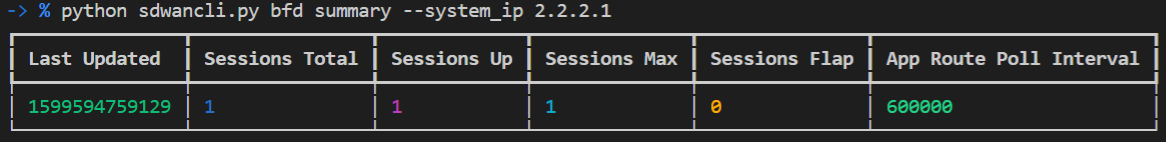
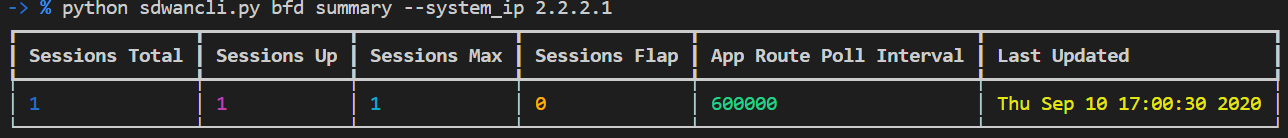
Update readme

diff --git a/vmanage/template.py b/vmanage/template.py
@@ -4,7 +4,7 @@ import click
 import json
 from rich.console import Console
 from rich.table import Table
-from rich.text import Text
+# from rich.text import Text
 from vmanage.authenticate import authentication
 from vmanage.constants import vmanage
 urllib3.disable_warnings(urllib3.exceptions.InsecureRequestWarning)
@@ -44,75 +44,74 @@ def template_list():
     console.print(table)
 
 
-@cli_template.command(name="create", help="Create a feature template")
-@click.option("--name", help="ID of the template you wish to delete")
-@click.option("--description", help="ID of the template you wish to delete")
-@click.option("--device_type", help="ID of the template you wish to delete")
-def create_template(name, description, device_type):
-    headers = authentication(vmanage)
-    base_url = "https://" + f'{vmanage["host"]}:{vmanage["port"]}/dataservice'
-    api = "/template/device/feature?api_key=/template/device"
-    url = base_url + api
-    payload = {
-        "templateName": name,
-        "templateDescription": description,
-        "deviceType": device_type,
-        "configType": "template",
-        "factoryDefault": "true",
-        "policyId": "",
-        "featureTemplateUidRange": [],
-        "generalTemplates": [
-            {
-                "templateId": "70fd00fe-cc5e-4e19-a730-538a77e758d5",
-                "templateType": "aaa"
-            },
-            {
-                "templateId": "99f10289-4795-4512-8955-007902bea884",
-                "templateType": "bfd-vedge"
-            },
-            {
-                "templateId": "1327de66-2eff-4e83-8787-0060675dc498",
-                "templateType": "omp-vedge"
-            },
-            {
-                "templateId": "24fb3c60-f4a5-4daf-9910-be477a046b9e",
-                "templateType": "security-vedge"
-            },
-            {
-                "templateId": "5fb744ed-3bbd-47d8-bec2-19b46c158fb5",
-                "templateType": "system-vedge",
-                "subTemplates": [
-                    {
-                        "templateId": "7eb31a03-0ad1-4bac-b89c-5b3012b6d09d",
-                        "templateType": "logging"
-                    }
-                ]
-            },
-            {
-                "templateId": "71294ac3-0aaa-4115-8995-476a91eac976",
-                "templateType": "vpn-vedge"
-            },
-            {
-                "templateId": "bbc09a4e-c91f-4dcf-a3ca-654a2f3bd135",
-                "templateType": "vpn-vedge"
-            }
-        ],
-        "templateClass": "vedge"
-
-    }
-    response = requests.post(
-        url=url, data=json.dumps(payload), headers=headers, verify=False)
-    if response.status_code == 200:
-        items = response.json()
-        text = Text.assemble(
-            ("Successful", "bold green"),
-            " create template with templateID = ",
-            (items["templateId"], "magenta"))
-        console = Console()
-        console.print(text)
-    else:
-        print(str(response.text))
-        exit()
+# @cli_template.command(name="create", help="Create a feature template")
+# @click.option("--name", help="ID of the template you wish to delete")
+# @click.option("--description", help="ID of the template you wish to delete")
+# @click.option("--device_type", help="ID of the template you wish to delete")
+# def create_template(name, description, device_type):
+#     headers = authentication(vmanage)
+#     base_url = "https://"+f'{vmanage["host"]}:{vmanage["port"]}/dataservice'
+#     api = "/template/device/feature?api_key=/template/device"
+#     url = base_url + api
+#     payload = {
+#         "templateName": name,
+#         "templateDescription": description,
+#         "deviceType": device_type,
+#         "configType": "template",
+#         "factoryDefault": "true",
+#         "policyId": "",
+#         "featureTemplateUidRange": [],
+#         "generalTemplates": [
+#             {
+#                 "templateId": "70fd00fe-cc5e-4e19-a730-538a77e758d5",
+#                 "templateType": "aaa"
+#             },
+#             {
+#                 "templateId": "99f10289-4795-4512-8955-007902bea884",
+#                 "templateType": "bfd-vedge"
+#             },
+#             {
+#                 "templateId": "1327de66-2eff-4e83-8787-0060675dc498",
+#                 "templateType": "omp-vedge"
+#             },
+#             {
+#                 "templateId": "24fb3c60-f4a5-4daf-9910-be477a046b9e",
+#                 "templateType": "security-vedge"
+#             },
+#             {
+#                 "templateId": "5fb744ed-3bbd-47d8-bec2-19b46c158fb5",
+#                 "templateType": "system-vedge",
+#                 "subTemplates": [
+#                     {
+#                         "templateId": "7eb31a03-0ad1-4bac-b89c-5b3012b6d09d",
+#                         "templateType": "logging"
+#                     }
+#                 ]
+#             },
+#             {
+#                 "templateId": "71294ac3-0aaa-4115-8995-476a91eac976",
+#                 "templateType": "vpn-vedge"
+#             },
+#             {
+#                 "templateId": "bbc09a4e-c91f-4dcf-a3ca-654a2f3bd135",
+#                 "templateType": "vpn-vedge"
+#             }
+#         ],
+#         "templateClass": "vedge"
+#     }
+#     response = requests.post(
+#         url=url, data=json.dumps(payload), headers=headers, verify=False)
+#     if response.status_code == 200:
+#         items = response.json()
+#         text = Text.assemble(
+#             ("Successful", "bold green"),
+#             " create template with templateID = ",
+#             (items["templateId"], "magenta"))
+#         console = Console()
+#         console.print(text)
+#     else:
+#         print(str(response.text))
+#         exit()
 
 
 @cli_template.command(name="delete", help="Delete a feature template")

diff --git a/vmanage/bfd.py b/vmanage/bfd.py
@@ -16,7 +16,8 @@ def cli_bfd():
     pass
 
 
-@cli_bfd.command(name="link", help="Get list of bfd links with status: up or down")
+@cli_bfd.command(
+    name="link", help="Get list of bfd links with status: up or down")
 @click.option("--state", help="State of BFD connections")
 def connection_status(state):
     headers = authentication(vmanage)
@@ -63,16 +64,18 @@ def summary_device(system_ip):
         exit()
     console = Console()
     table = Table(
-        "Last Updated", "Sessions Total", "Sessions Up", "Sessions Max",
-        "Sessions Flap", "App Route Poll Interval")
+        "Sessions Total", "Sessions Up", "Sessions Max",
+        "Sessions Flap", "App Route Poll Interval", "Last Updated")
 
     for item in items:
-        table.add_row(f'[green]{item["lastupdated"]}[/green]',
-                      f'[blue]{item["bfd-sessions-total"]}[/blue]',
+        time_date = datetime.datetime.fromtimestamp(
+            int(item["lastupdated"])/1000).strftime('%c')
+        table.add_row(f'[blue]{item["bfd-sessions-total"]}[/blue]',
                       f'[magenta]{item["bfd-sessions-up"]}[/magenta]',
                       f'[cyan]{item["bfd-sessions-max"]}[/cyan]',
                       f'[orange1]{item["bfd-sessions-flap"]}[/orange1]',
-                      f'[bright_green]{item["poll-interval"]}[/bright_green]')
+                      f'[bright_green]{item["poll-interval"]}[/bright_green]',
+                      f'[yellow]{time_date}[/yellow]')
     console.print(table)
 
 
@@ -91,13 +94,15 @@ def session_device(system_ip):
         exit()
     console = Console()
     table = Table(
-        "System IP", "Last Updated", "Site ID", "State", "Source TLOC color",
+        "System IP", "Site ID", "State", "Source TLOC color",
         "Remote TLOC color", "Source IP", "Destination Public IP",
-        "Destination Public Port", "Encapsulation", "Source Port")
+        "Destination Public Port", "Encapsulation", "Source Port",
+        "Last Updated")
 
     for item in items:
+        time_date = datetime.datetime.fromtimestamp(
+            int(item["lastupdated"])/1000).strftime('%c')
         table.add_row(f'[green]{item["system-ip"]}[/green]',
-                      f'[blue]{item["lastupdated"]}[/blue]',
                       f'[magenta]{item["site-id"]}[/magenta]',
                       f'[cyan]{item["state"]}[/cyan]',
                       f'[orange1]{item["local-color"]}[/orange1]',
@@ -106,5 +111,6 @@ def session_device(system_ip):
                       f'[cyan]{item["dst-ip"]}[/cyan]',
                       f'[orange1]{item["dst-port"]}[/orange1]',
                       f'[bright_green]{item["proto"]}[/bright_green]',
-                      f'[magenta]{item["src-port"]}[/magenta]')
+                      f'[magenta]{item["src-port"]}[/magenta]',
+                      f'[yellow]{time_date}[/yellow]',)
     console.print(table)

diff --git a/vmanage/constants.py b/vmanage/constants.py
@@ -5,10 +5,20 @@ vmanage = {
     "password": "admin"
 }
 
-## AlwaysOn SDWAN Sandbox
-# vmanage_sandbox = {
+# AlwaysOn SDWAN Sandbox
+
+# vmanage = {
 #     "host": "sandbox-sdwan-1.cisco.com",
 #     "port": "443",
 #     "username": "devnetuser",
 #     "password": "RG!_Yw919_83"
+# }
+
+# Reservable SDWAN Sandbox
+
+# vmanage = {
+#     "host": "10.10.20.90",
+#     "port": "8443",
+#     "username": "admin",
+#     "password": "C1sco12345"
 # }

diff --git a/README.md b/README.md
@@ -4,7 +4,11 @@
 
 This public repo contains python code that can be used to interact with the Cisco SD-WAN vManage REST API. The environment is pre-configured to access my local SD-WAN lab in GNS3. 
 
-You can edit the variables in the `vmanage/constants.py` to point to your own vManage instance. 
+You can edit the variables in the `vmanage/constants.py` to point to your own vManage instance, the AlwaysOn SDWAN Sandbox, or the Reservable
+SDWAN Sandbox.
+
+**Note:** When you use the AlwaysOn Sandbox, you do not have permission to perform
+some commands such as `edit`, `create`, `delete`.
 
 
 ### Topology
@@ -62,6 +66,24 @@ Commands:
   link     Get list of bfd links with status: up or down
   session  Show BFD sessions at a device
   summary  Show BFD summary of a device
+```
+
+You can access the help of each subcommand to know about the arguments using 
+`python sdwancli.py {command} {subcommand} --help`, for example:
+
+```bash
+-> % python sdwancli.py sla create --help
+Usage: sdwancli.py sla create [OPTIONS]
+
+  Create a SLA Class
+
+Options:
+  --name TEXT         name of the SLA Class
+  --description TEXT  description of the SLA Class
+  --loss TEXT         loss 0 - 100 %
+  --latency TEXT      latency 1 - 1000 ms
+  --jitter TEXT       jitter 1 - 1000 ms
+  --help              Show this message and exit.
 ```
 
 ## Requirements
@@ -126,6 +148,7 @@ python sdwancli.py bfd summary --system_ip 2.2.2.1
 ![Alt text](images/03_bfd_summary.png)
 
 ### SLA Class manager
+#### SLA list and create
 
 ```bash
 python sdwancli.py sla list
@@ -134,6 +157,7 @@ python sdwancli.py sla create --name "Video-Games3" --description "videogame 3" 
 
 ![Alt text](images/04_sla_list_create.png)
 
+#### SLA edit and delete
 ```bash
 python sdwancli.py sla edit --name "Video-Games3" --sla_id 9e5efdbe-ef79-4797-b3d3-d9b732d45422 --loss 10 --latency 100 --jitter 20
 python sdwancli.py sla delete --sla_id 9e5efdbe-ef79-4797-b3d3-d9b732d45422
